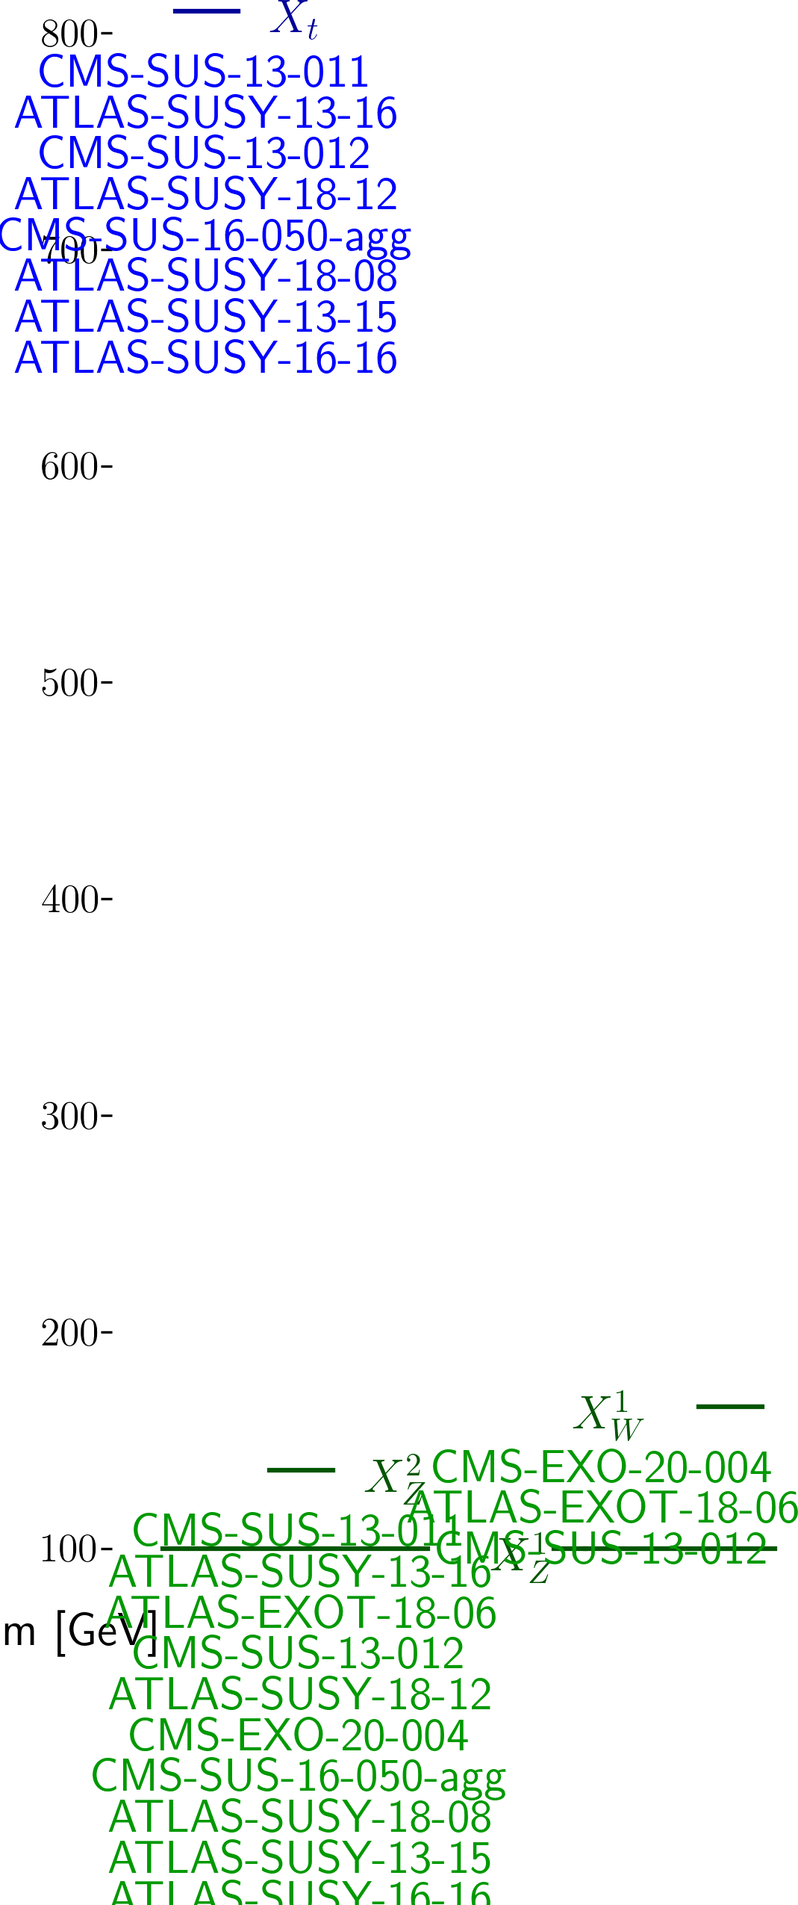
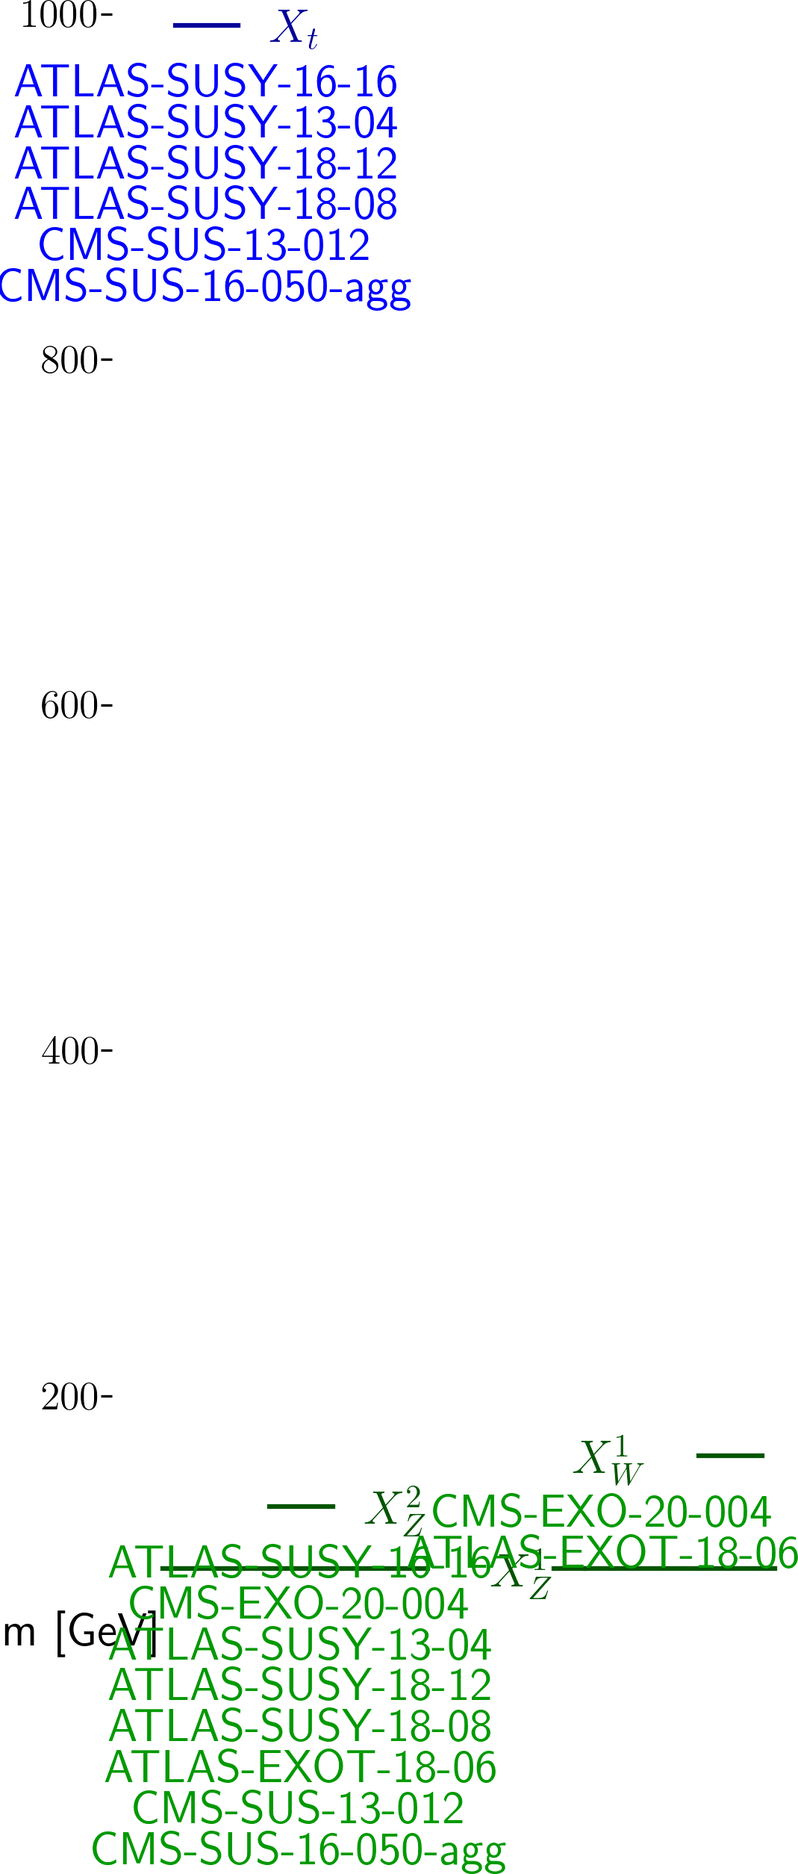
automated update by plotHiscore.py to mcmc_310:     K=23.990 TL=29.04 walkerid=0

diff --git a/protomodels/mcmc_310/rawnumbers.html b/protomodels/mcmc_310/rawnumbers.html
@@ -3,47 +3,25 @@
 </tr>
 <tr><td><a href=http://cms-results.web.cern.ch/cms-results/public-results/publications/EXO-20-004/>CMS-EXO-20-004</a></td><td>comb</td> <td>-</td><td>TChiISR, TChiZISRqq</td><td> 2e+02 fb </td><td> 1e+02 fb</td><td style="text-align:right">4.5 &sigma;</td><td style="text-align:right">X<sup>1</sup><sub>W</sub>, X<sup>1</sup><sub>Z</sub>, X<sup>2</sup><sub>Z</sub></td></tr>
 <tr><td><a href=https://atlas.web.cern.ch/Atlas/GROUPS/PHYSICS/PAPERS/EXOT-2018-06/>ATLAS-EXOT-2018-06</a></td><td>em</td> <td>EM10</td><td>TChiISR, TChiZISRqq</td><td>413</td><td>359.00 +/- 10.00</td><td style="text-align:right">2.5 &sigma;</td><td style="text-align:right">X<sup>1</sup><sub>W</sub>, X<sup>1</sup><sub>Z</sub>, X<sup>2</sup><sub>Z</sub></td></tr>
-<tr><td><a href=https://atlas.web.cern.ch/Atlas/GROUPS/PHYSICS/PAPERS/SUSY-2018-12/>ATLAS-SUSY-2018-12</a></td><td>em</td> <td>SRBTT</td><td>T2tt</td><td>67</td><td>46.00 +/- 7.00</td><td style="text-align:right">2.0 &sigma;</td><td style="text-align:right">X<sup>1</sup><sub>Z</sub>, X<sub>t</sub>, X<sup>2</sup><sub>Z</sub></td></tr>
-<tr><td><a href=https://twiki.cern.ch/twiki/bin/view/CMSPublic/PhysicsResultsSUS13012>CMS-SUS-13-012</a></td><td>em</td> <td>6NJet8_500HT800 ...</td><td>T2tt, T6bbWWoff</td><td>9</td><td>0.80 +/- 3.30</td><td style="text-align:right">1.8 &sigma;</td><td style="text-align:right">X<sup>1</sup><sub>W</sub>, X<sup>1</sup><sub>Z</sub>, X<sub>t</sub>, X<sup>2</sup><sub>Z</sub></td></tr>
-<tr><td><a href=https://atlas.web.cern.ch/Atlas/GROUPS/PHYSICS/PAPERS/SUSY-2018-08/>ATLAS-SUSY-2018-08</a></td><td>em</td> <td>SRSF140</td><td>T2tt</td><td>9</td><td>5.10 +/- 0.90</td><td style="text-align:right">1.5 &sigma;</td><td style="text-align:right">X<sup>1</sup><sub>Z</sub>, X<sub>t</sub>, X<sup>2</sup><sub>Z</sub></td></tr>
-<tr><td><a href=https://atlas.web.cern.ch/Atlas/GROUPS/PHYSICS/PAPERS/SUSY-2016-16/>ATLAS-SUSY-2016-16</a></td><td>em</td> <td>tN_med</td><td>T2tt</td><td>50</td><td>36.30 +/- 6.60</td><td style="text-align:right">1.5 &sigma;</td><td style="text-align:right">X<sup>1</sup><sub>Z</sub>, X<sub>t</sub>, X<sup>2</sup><sub>Z</sub></td></tr>
-<tr><td><a href=https://atlas.web.cern.ch/Atlas/GROUPS/PHYSICS/PAPERS/SUSY-2013-16/>ATLAS-SUSY-2013-16</a></td><td>em</td> <td>SRA4</td><td>T2tt</td><td>4</td><td>2.40 +/- 0.70</td><td style="text-align:right">0.9 &sigma;</td><td style="text-align:right">X<sup>1</sup><sub>Z</sub>, X<sub>t</sub>, X<sup>2</sup><sub>Z</sub></td></tr>
-<tr><td><a href=https://atlas.web.cern.ch/Atlas/GROUPS/PHYSICS/PAPERS/SUSY-2013-15/>ATLAS-SUSY-2013-15</a></td><td>em</td> <td>tNboost</td><td>T2tt</td><td>5</td><td>3.30 +/- 0.70</td><td style="text-align:right">0.9 &sigma;</td><td style="text-align:right">X<sup>1</sup><sub>Z</sub>, X<sub>t</sub>, X<sup>2</sup><sub>Z</sub></td></tr>
-<tr><td><a href=https://twiki.cern.ch/twiki/bin/view/CMSPublic/PhysicsResultsSUS13011>CMS-SUS-13-011</a></td><td>em</td> <td>LM150</td><td>T2tt</td><td>227</td><td>251.00 +/- 50.00</td><td style="text-align:right">-0.5 &sigma;</td><td style="text-align:right">X<sup>1</sup><sub>Z</sub>, X<sub>t</sub>, X<sup>2</sup><sub>Z</sub></td></tr>
-<tr><td><a href=http://cms-results.web.cern.ch/cms-results/public-results/publications/SUS-16-050/index.html>CMS-SUS-16-050-agg</a></td><td>comb</td> <td>-</td><td>T2tt</td><td> 0.5 fb </td><td> 0.7 fb</td><td style="text-align:right">-0.7 &sigma;</td><td style="text-align:right">X<sup>1</sup><sub>Z</sub>, X<sub>t</sub>, X<sup>2</sup><sub>Z</sub></td></tr>
+<tr><td><a href=https://atlas.web.cern.ch/Atlas/GROUPS/PHYSICS/PAPERS/SUSY-2016-16/>ATLAS-SUSY-2016-16</a></td><td>em</td> <td>tN_high</td><td>T2tt</td><td>8</td><td>3.80 +/- 1.00</td><td style="text-align:right">1.7 &sigma;</td><td style="text-align:right">X<sub>t</sub>, X<sup>2</sup><sub>Z</sub></td></tr>
+<tr><td><a href=https://atlas.web.cern.ch/Atlas/GROUPS/PHYSICS/PAPERS/SUSY-2018-08/>ATLAS-SUSY-2018-08</a></td><td>em</td> <td>SRSF140</td><td>T2tt</td><td>9</td><td>5.10 +/- 0.90</td><td style="text-align:right">1.5 &sigma;</td><td style="text-align:right">X<sub>t</sub>, X<sup>2</sup><sub>Z</sub></td></tr>
+<tr><td><a href=https://twiki.cern.ch/twiki/bin/view/CMSPublic/PhysicsResultsSUS13012>CMS-SUS-13-012</a></td><td>em</td> <td>3NJet6_1000HT12 ...</td><td>T2tt</td><td>32</td><td>22.80 +/- 5.20</td><td style="text-align:right">1.3 &sigma;</td><td style="text-align:right">X<sub>t</sub>, X<sup>2</sup><sub>Z</sub></td></tr>
+<tr><td><a href=https://atlas.web.cern.ch/Atlas/GROUPS/PHYSICS/PAPERS/SUSY-2013-04/>ATLAS-SUSY-2013-04</a></td><td>em</td> <td>GtGrid_SR_10ij5 ...</td><td>T2tt</td><td>3</td><td>1.37 +/- 0.35</td><td style="text-align:right">1.2 &sigma;</td><td style="text-align:right">X<sub>t</sub>, X<sup>2</sup><sub>Z</sub></td></tr>
+<tr><td><a href=https://atlas.web.cern.ch/Atlas/GROUPS/PHYSICS/PAPERS/SUSY-2018-12/>ATLAS-SUSY-2018-12</a></td><td>em</td> <td>SRATW</td><td>T2tt</td><td>8</td><td>5.60 +/- 0.70</td><td style="text-align:right">1.0 &sigma;</td><td style="text-align:right">X<sub>t</sub>, X<sup>2</sup><sub>Z</sub></td></tr>
+<tr><td><a href=http://cms-results.web.cern.ch/cms-results/public-results/publications/SUS-16-050/index.html>CMS-SUS-16-050-agg</a></td><td>comb</td> <td>-</td><td>T2tt</td><td> 0.4 fb </td><td> 0.7 fb</td><td style="text-align:right">-0.2 &sigma;</td><td style="text-align:right">X<sub>t</sub>, X<sup>2</sup><sub>Z</sub></td></tr>
 </table>
 <table style='color:grey'>
-<tr><th>Not in Best Combo</th><th>Type</th><th>Dataset</th><th>Topos</th><th>Observed</th><th>Expected</th><th>Approx &sigma;</th><th>Particles</th><tr><td><a href=https://atlas.web.cern.ch/Atlas/GROUPS/PHYSICS/PAPERS/SUSY-2015-02/>ATLAS-SUSY-2015-02</a></td><td>em</td> <td>SR1</td><td>T2tt</td><td>12</td><td>5.50 +/- 0.72</td><td style="text-align:right">2.3 &sigma;</td><td style="text-align:right">X<sup>1</sup><sub>Z</sub>, X<sub>t</sub>, X<sup>2</sup><sub>Z</sub></td></tr>
-<tr><td><a href=https://atlas.web.cern.ch/Atlas/GROUPS/PHYSICS/PAPERS/SUSY-2013-04/>ATLAS-SUSY-2013-04</a></td><td>em</td> <td>GtGrid_SR_10ij5 ...</td><td>T2tt</td><td>3</td><td>1.37 +/- 0.35</td><td style="text-align:right">1.2 &sigma;</td><td style="text-align:right">X<sup>1</sup><sub>Z</sub>, X<sub>t</sub>, X<sup>2</sup><sub>Z</sub></td></tr>
-<tr><td><a href=http://cms-results.web.cern.ch/cms-results/public-results/publications/SUS-16-033/index.html>CMS-SUS-16-033</a></td><td>em</td> <td>SR2_Njet3_Nb0_H ...</td><td>T2tt</td><td>71</td><td>55.20 +/- 11.50</td><td style="text-align:right">1.1 &sigma;</td><td style="text-align:right">X<sup>1</sup><sub>Z</sub>, X<sub>t</sub>, X<sup>2</sup><sub>Z</sub></td></tr>
-<tr><td><a href=https://atlas.web.cern.ch/Atlas/GROUPS/PHYSICS/PAPERS/SUSY-2013-04/>ATLAS-SUSY-2013-04</a></td><td>em</td> <td>GtGrid_SR_8ij80 ...</td><td>T2tt</td><td>2</td><td>0.90 +/- 0.60</td><td style="text-align:right">0.9 &sigma;</td><td style="text-align:right">X<sup>1</sup><sub>Z</sub>, X<sub>t</sub>, X<sup>2</sup><sub>Z</sub></td></tr>
-<tr><td><a href=https://atlas.web.cern.ch/Atlas/GROUPS/PHYSICS/PAPERS/SUSY-2013-04/>ATLAS-SUSY-2013-04</a></td><td>em</td> <td>GtGrid_SR_9ej50 ...</td><td>T2tt</td><td>5</td><td>3.30 +/- 0.70</td><td style="text-align:right">0.9 &sigma;</td><td style="text-align:right">X<sup>1</sup><sub>Z</sub>, X<sub>t</sub>, X<sup>2</sup><sub>Z</sub></td></tr>
-<tr><td><a href=https://twiki.cern.ch/twiki/bin/view/CMSPublic/PhysicsResultsSUS13015>CMS-PAS-SUS-13-015</a></td><td>em</td> <td>pTmiss350_Nb2</td><td>T2tt</td><td>15</td><td>8.60 +/- 7.10</td><td style="text-align:right">0.8 &sigma;</td><td style="text-align:right">X<sup>1</sup><sub>Z</sub>, X<sub>t</sub>, X<sup>2</sup><sub>Z</sub></td></tr>
-<tr><td><a href=https://atlas.web.cern.ch/Atlas/GROUPS/PHYSICS/PAPERS/SUSY-2013-04/>ATLAS-SUSY-2013-04</a></td><td>em</td> <td>GtGrid_SR_8ej50 ...</td><td>T2tt</td><td>40</td><td>35.00 +/- 4.00</td><td style="text-align:right">0.7 &sigma;</td><td style="text-align:right">X<sup>1</sup><sub>Z</sub>, X<sub>t</sub>, X<sup>2</sup><sub>Z</sub></td></tr>
-<tr><td><a href=https://atlas.web.cern.ch/Atlas/GROUPS/PHYSICS/PAPERS/SUSY-2013-04/>ATLAS-SUSY-2013-04</a></td><td>em</td> <td>GtGrid_SR_9ej50 ...</td><td>T2tt</td><td>8</td><td>6.10 +/- 1.70</td><td style="text-align:right">0.7 &sigma;</td><td style="text-align:right">X<sup>1</sup><sub>Z</sub>, X<sub>t</sub>, X<sup>2</sup><sub>Z</sub></td></tr>
-<tr><td><a href=http://cms-results.web.cern.ch/cms-results/public-results/publications/SUS-16-033/index.html>CMS-SUS-16-033</a></td><td>em</td> <td>SR6_Njet2_Nb2_H ...</td><td>T2tt</td><td>216</td><td>196.00 +/- 28.00</td><td style="text-align:right">0.6 &sigma;</td><td style="text-align:right">X<sup>1</sup><sub>Z</sub>, X<sub>t</sub>, X<sup>2</sup><sub>Z</sub></td></tr>
-<tr><td><a href=http://cms-results.web.cern.ch/cms-results/public-results/publications/SUS-16-033/index.html>CMS-SUS-16-033</a></td><td>em</td> <td>SR1_Njet2_Nb0_H ...</td><td>T2tt</td><td>7838</td><td>7584.00 +/- 433.00</td><td style="text-align:right">0.6 &sigma;</td><td style="text-align:right">X<sup>1</sup><sub>Z</sub>, X<sub>t</sub>, X<sup>2</sup><sub>Z</sub></td></tr>
-<tr><td><a href=http://cms-results.web.cern.ch/cms-results/public-results/publications/SUS-16-033/index.html>CMS-SUS-16-033</a></td><td>em</td> <td>SR12_Njet5_Nb1_ ...</td><td>T2tt</td><td>48</td><td>42.20 +/- 9.70</td><td style="text-align:right">0.5 &sigma;</td><td style="text-align:right">X<sup>1</sup><sub>Z</sub>, X<sub>t</sub>, X<sup>2</sup><sub>Z</sub></td></tr>
-<tr><td><a href=http://cms-results.web.cern.ch/cms-results/public-results/publications/SUS-16-033/index.html>CMS-SUS-16-033</a></td><td>em</td> <td>SR7_Njet3_Nb1_H ...</td><td>T2tt</td><td>123</td><td>113.00 +/- 18.00</td><td style="text-align:right">0.5 &sigma;</td><td style="text-align:right">X<sup>1</sup><sub>Z</sub>, X<sub>t</sub>, X<sup>2</sup><sub>Z</sub></td></tr>
-<tr><td><a href=https://twiki.cern.ch/twiki/bin/view/CMSPublic/PhysicsResultsSUS13015>CMS-PAS-SUS-13-015</a></td><td>em</td> <td>pTmiss350_Nb1</td><td>T2tt</td><td>45</td><td>40.90 +/- 9.60</td><td style="text-align:right">0.4 &sigma;</td><td style="text-align:right">X<sup>1</sup><sub>Z</sub>, X<sub>t</sub>, X<sup>2</sup><sub>Z</sub></td></tr>
-<tr><td><a href=http://cms-results.web.cern.ch/cms-results/public-results/publications/SUS-16-033/index.html>CMS-SUS-16-033</a></td><td>em</td> <td>SR9_NJet5_Nb2_H ...</td><td>T2tt</td><td>6</td><td>4.40 +/- 3.40</td><td style="text-align:right">0.4 &sigma;</td><td style="text-align:right">X<sup>1</sup><sub>Z</sub>, X<sub>t</sub>, X<sup>2</sup><sub>Z</sub></td></tr>
-<tr><td><a href=https://atlas.web.cern.ch/Atlas/GROUPS/PHYSICS/PAPERS/SUSY-2013-04/>ATLAS-SUSY-2013-04</a></td><td>em</td> <td>GtGrid_SR_8ej50 ...</td><td>T2tt</td><td>44</td><td>40.00 +/- 10.00</td><td style="text-align:right">0.4 &sigma;</td><td style="text-align:right">X<sup>1</sup><sub>Z</sub>, X<sub>t</sub>, X<sup>2</sup><sub>Z</sub></td></tr>
-<tr><td><a href=https://atlas.web.cern.ch/Atlas/GROUPS/PHYSICS/PAPERS/SUSY-2013-04/>ATLAS-SUSY-2013-04</a></td><td>em</td> <td>GtGrid_SR_7ej80 ...</td><td>T2tt</td><td>12</td><td>11.00 +/- 2.20</td><td style="text-align:right">0.3 &sigma;</td><td style="text-align:right">X<sup>1</sup><sub>Z</sub>, X<sub>t</sub>, X<sup>2</sup><sub>Z</sub></td></tr>
-<tr><td><a href=http://cms-results.web.cern.ch/cms-results/public-results/publications/SUS-16-033/index.html>CMS-SUS-16-033</a></td><td>em</td> <td>SR4_Njet5_Nb0_H ...</td><td>T2tt</td><td>25</td><td>23.00 +/- 6.50</td><td style="text-align:right">0.3 &sigma;</td><td style="text-align:right">X<sup>1</sup><sub>Z</sub>, X<sub>t</sub>, X<sup>2</sup><sub>Z</sub></td></tr>
-<tr><td><a href=http://cms-results.web.cern.ch/cms-results/public-results/publications/SUS-16-033/index.html>CMS-SUS-16-033</a></td><td>em</td> <td>SR3_Njet5_Nb0_H ...</td><td>T2tt</td><td>819</td><td>806.00 +/- 57.00</td><td style="text-align:right">0.2 &sigma;</td><td style="text-align:right">X<sup>1</sup><sub>Z</sub>, X<sub>t</sub>, X<sup>2</sup><sub>Z</sub></td></tr>
-<tr><td><a href=https://atlas.web.cern.ch/Atlas/GROUPS/PHYSICS/PAPERS/SUSY-2015-02/>ATLAS-SUSY-2015-02</a></td><td>em</td> <td>SR3</td><td>T2tt</td><td>1</td><td>1.03 +/- 0.18</td><td style="text-align:right">0.1 &sigma;</td><td style="text-align:right">X<sup>1</sup><sub>Z</sub>, X<sub>t</sub>, X<sup>2</sup><sub>Z</sub></td></tr>
-<tr><td><a href=https://atlas.web.cern.ch/Atlas/GROUPS/PHYSICS/PAPERS/SUSY-2013-04/>ATLAS-SUSY-2013-04</a></td><td>em</td> <td>GtGrid_SR_7ej80 ...</td><td>T2tt</td><td>17</td><td>17.00 +/- 6.00</td><td style="text-align:right">0.0 &sigma;</td><td style="text-align:right">X<sup>1</sup><sub>Z</sub>, X<sub>t</sub>, X<sup>2</sup><sub>Z</sub></td></tr>
+<tr><th>Not in Best Combo</th><th>Type</th><th>Dataset</th><th>Topos</th><th>Observed</th><th>Expected</th><th>Approx &sigma;</th><th>Particles</th><tr><td><a href=http://cms-results.web.cern.ch/cms-results/public-results/publications/SUS-16-033/index.html>CMS-SUS-16-033</a></td><td>em</td> <td>SR2_Njet3_Nb0_H ...</td><td>T2tt</td><td>71</td><td>55.20 +/- 11.50</td><td style="text-align:right">1.2 &sigma;</td><td style="text-align:right">X<sub>t</sub>, X<sup>2</sup><sub>Z</sub></td></tr>
+<tr><td><a href=http://cms-results.web.cern.ch/cms-results/public-results/publications/SUS-16-033/index.html>CMS-SUS-16-033</a></td><td>em</td> <td>SR6_Njet2_Nb2_H ...</td><td>T2tt</td><td>216</td><td>196.00 +/- 28.00</td><td style="text-align:right">0.6 &sigma;</td><td style="text-align:right">X<sub>t</sub>, X<sup>2</sup><sub>Z</sub></td></tr>
+<tr><td><a href=http://cms-results.web.cern.ch/cms-results/public-results/publications/SUS-16-033/index.html>CMS-SUS-16-033</a></td><td>em</td> <td>SR1_Njet2_Nb0_H ...</td><td>T2tt</td><td>7838</td><td>7584.00 +/- 433.00</td><td style="text-align:right">0.6 &sigma;</td><td style="text-align:right">X<sub>t</sub>, X<sup>2</sup><sub>Z</sub></td></tr>
+<tr><td><a href=http://cms-results.web.cern.ch/cms-results/public-results/publications/SUS-16-033/index.html>CMS-SUS-16-033</a></td><td>em</td> <td>SR12_Njet5_Nb1_ ...</td><td>T2tt</td><td>48</td><td>42.20 +/- 9.70</td><td style="text-align:right">0.5 &sigma;</td><td style="text-align:right">X<sub>t</sub>, X<sup>2</sup><sub>Z</sub></td></tr>
+<tr><td><a href=http://cms-results.web.cern.ch/cms-results/public-results/publications/SUS-16-033/index.html>CMS-SUS-16-033</a></td><td>em</td> <td>SR7_Njet3_Nb1_H ...</td><td>T2tt</td><td>123</td><td>113.00 +/- 18.00</td><td style="text-align:right">0.5 &sigma;</td><td style="text-align:right">X<sub>t</sub>, X<sup>2</sup><sub>Z</sub></td></tr>
+<tr><td><a href=http://cms-results.web.cern.ch/cms-results/public-results/publications/SUS-16-033/index.html>CMS-SUS-16-033</a></td><td>em</td> <td>SR9_NJet5_Nb2_H ...</td><td>T2tt</td><td>6</td><td>4.40 +/- 3.40</td><td style="text-align:right">0.4 &sigma;</td><td style="text-align:right">X<sub>t</sub>, X<sup>2</sup><sub>Z</sub></td></tr>
+<tr><td><a href=http://cms-results.web.cern.ch/cms-results/public-results/publications/SUS-16-033/index.html>CMS-SUS-16-033</a></td><td>em</td> <td>SR4_Njet5_Nb0_H ...</td><td>T2tt</td><td>25</td><td>23.00 +/- 6.50</td><td style="text-align:right">0.3 &sigma;</td><td style="text-align:right">X<sub>t</sub>, X<sup>2</sup><sub>Z</sub></td></tr>
+<tr><td><a href=http://cms-results.web.cern.ch/cms-results/public-results/publications/SUS-16-033/index.html>CMS-SUS-16-033</a></td><td>em</td> <td>SR3_Njet5_Nb0_H ...</td><td>T2tt</td><td>819</td><td>806.00 +/- 57.00</td><td style="text-align:right">0.2 &sigma;</td><td style="text-align:right">X<sub>t</sub>, X<sup>2</sup><sub>Z</sub></td></tr>
 <tr><td><a href=http://cms-results.web.cern.ch/cms-results/public-results/publications/SUS-16-033/index.html>CMS-SUS-16-033</a></td><td>em</td> <td>SR5_Njet9_Nb0_H ...</td><td>T2tt</td><td>1</td><td>0.60 +/- 1.30</td><td style="text-align:right">0.0 &sigma;</td><td style="text-align:right">X<sub>t</sub>, X<sup>2</sup><sub>Z</sub></td></tr>
-<tr><td><a href=https://twiki.cern.ch/twiki/bin/view/CMSPublic/PhysicsResultsSUS13015>CMS-PAS-SUS-13-015</a></td><td>em</td> <td>pTmiss200_Nb1</td><td>T2tt</td><td>254</td><td>254.30 +/- 35.00</td><td style="text-align:right">0.0 &sigma;</td><td style="text-align:right">X<sup>1</sup><sub>Z</sub>, X<sub>t</sub>, X<sup>2</sup><sub>Z</sub></td></tr>
-<tr><td><a href=https://atlas.web.cern.ch/Atlas/GROUPS/PHYSICS/PAPERS/SUSY-2013-04/>ATLAS-SUSY-2013-04</a></td><td>em</td> <td>GtGrid_SR_8ij80 ...</td><td>T2tt</td><td>3</td><td>3.30 +/- 2.20</td><td style="text-align:right">-0.1 &sigma;</td><td style="text-align:right">X<sup>1</sup><sub>Z</sub>, X<sub>t</sub>, X<sup>2</sup><sub>Z</sub></td></tr>
-<tr><td><a href=https://atlas.web.cern.ch/Atlas/GROUPS/PHYSICS/PAPERS/SUSY-2015-02/>ATLAS-SUSY-2015-02</a></td><td>em</td> <td>SR2</td><td>T2tt</td><td>1</td><td>1.25 +/- 0.26</td><td style="text-align:right">-0.1 &sigma;</td><td style="text-align:right">X<sup>1</sup><sub>Z</sub>, X<sub>t</sub>, X<sup>2</sup><sub>Z</sub></td></tr>
-<tr><td><a href=https://atlas.web.cern.ch/Atlas/GROUPS/PHYSICS/PAPERS/SUSY-2013-04/>ATLAS-SUSY-2013-04</a></td><td>em</td> <td>GtGrid_SR_9ej50 ...</td><td>T2tt</td><td>7</td><td>8.00 +/- 2.70</td><td style="text-align:right">-0.2 &sigma;</td><td style="text-align:right">X<sup>1</sup><sub>Z</sub>, X<sub>t</sub>, X<sup>2</sup><sub>Z</sub></td></tr>
-<tr><td><a href=https://atlas.web.cern.ch/Atlas/GROUPS/PHYSICS/PAPERS/SUSY-2013-04/>ATLAS-SUSY-2013-04</a></td><td>em</td> <td>GtGrid_SR_8ij80 ...</td><td>T2tt</td><td>1</td><td>1.50 +/- 0.90</td><td style="text-align:right">-0.2 &sigma;</td><td style="text-align:right">X<sup>1</sup><sub>Z</sub>, X<sub>t</sub>, X<sup>2</sup><sub>Z</sub></td></tr>
-<tr><td><a href=https://twiki.cern.ch/twiki/bin/view/CMSPublic/PhysicsResultsSUS13015>CMS-PAS-SUS-13-015</a></td><td>em</td> <td>pTmiss200_Nb2</td><td>T2tt</td><td>83</td><td>88.40 +/- 19.80</td><td style="text-align:right">-0.2 &sigma;</td><td style="text-align:right">X<sup>1</sup><sub>Z</sub>, X<sub>t</sub>, X<sup>2</sup><sub>Z</sub></td></tr>
-<tr><td><a href=http://cms-results.web.cern.ch/cms-results/public-results/publications/SUS-16-033/index.html>CMS-SUS-16-033</a></td><td>em</td> <td>SR8_Njet5_Nb3_H ...</td><td>T2tt</td><td>17</td><td>19.50 +/- 8.40</td><td style="text-align:right">-0.2 &sigma;</td><td style="text-align:right">X<sup>1</sup><sub>Z</sub>, X<sub>t</sub>, X<sup>2</sup><sub>Z</sub></td></tr>
-<tr><td><a href=https://atlas.web.cern.ch/Atlas/GROUPS/PHYSICS/PAPERS/SUSY-2013-04/>ATLAS-SUSY-2013-04</a></td><td>em</td> <td>GtGrid_SR_8ej50 ...</td><td>T2tt</td><td>44</td><td>50.00 +/- 10.00</td><td style="text-align:right">-0.5 &sigma;</td><td style="text-align:right">X<sup>1</sup><sub>Z</sub>, X<sub>t</sub>, X<sup>2</sup><sub>Z</sub></td></tr>
-<tr><td><a href=http://cms-results.web.cern.ch/cms-results/public-results/publications/SUS-16-033/index.html>CMS-SUS-16-033</a></td><td>em</td> <td>SR10_Njet9_Nb3_ ...</td><td>T2tt</td><td>0</td><td>0.00 +/- 1.30</td><td style="text-align:right">-0.8 &sigma;</td><td style="text-align:right">X<sup>1</sup><sub>Z</sub>, X<sub>t</sub>, X<sup>2</sup><sub>Z</sub></td></tr>
-<tr><td><a href=http://cms-results.web.cern.ch/cms-results/public-results/publications/SUS-16-033/index.html>CMS-SUS-16-033</a></td><td>em</td> <td>SR11_Njet7_Nb1_ ...</td><td>T2tt</td><td>890</td><td>969.00 +/- 80.00</td><td style="text-align:right">-0.9 &sigma;</td><td style="text-align:right">X<sup>1</sup><sub>Z</sub>, X<sub>t</sub>, X<sup>2</sup><sub>Z</sub></td></tr>
-<tr><td><a href=https://atlas.web.cern.ch/Atlas/GROUPS/PHYSICS/PAPERS/SUSY-2013-04/>ATLAS-SUSY-2013-04</a></td><td>em</td> <td>GtGrid_SR_7ej80 ...</td><td>T2tt</td><td>13</td><td>25.00 +/- 10.00</td><td style="text-align:right">-1.1 &sigma;</td><td style="text-align:right">X<sup>1</sup><sub>Z</sub>, X<sub>t</sub>, X<sup>2</sup><sub>Z</sub></td></tr>
-<tr><td><a href=http://cms-results.web.cern.ch/cms-results/public-results/publications/SUS-19-006/index.html>CMS-SUS-19-006-agg</a></td><td>comb</td> <td>-</td><td>T2tt</td><td> 1 fb </td><td> 2 fb</td><td style="text-align:right">-1.4 &sigma;</td><td style="text-align:right">X<sup>1</sup><sub>Z</sub>, X<sub>t</sub>, X<sup>2</sup><sub>Z</sub></td></tr>
+<tr><td><a href=http://cms-results.web.cern.ch/cms-results/public-results/publications/SUS-16-033/index.html>CMS-SUS-16-033</a></td><td>em</td> <td>SR8_Njet5_Nb3_H ...</td><td>T2tt</td><td>17</td><td>19.50 +/- 8.40</td><td style="text-align:right">-0.2 &sigma;</td><td style="text-align:right">X<sub>t</sub>, X<sup>2</sup><sub>Z</sub></td></tr>
+<tr><td><a href=http://cms-results.web.cern.ch/cms-results/public-results/publications/SUS-19-006/index.html>CMS-SUS-19-006-agg</a></td><td>comb</td> <td>-</td><td>T2tt</td><td> 0.9 fb </td><td> 1 fb</td><td style="text-align:right">-0.6 &sigma;</td><td style="text-align:right">X<sub>t</sub>, X<sup>2</sup><sub>Z</sub></td></tr>
+<tr><td><a href=http://cms-results.web.cern.ch/cms-results/public-results/publications/SUS-16-033/index.html>CMS-SUS-16-033</a></td><td>em</td> <td>SR10_Njet9_Nb3_ ...</td><td>T2tt</td><td>0</td><td>0.00 +/- 1.30</td><td style="text-align:right">-0.7 &sigma;</td><td style="text-align:right">X<sub>t</sub>, X<sup>2</sup><sub>Z</sub></td></tr>
+<tr><td><a href=http://cms-results.web.cern.ch/cms-results/public-results/publications/SUS-16-033/index.html>CMS-SUS-16-033</a></td><td>em</td> <td>SR11_Njet7_Nb1_ ...</td><td>T2tt</td><td>890</td><td>969.00 +/- 80.00</td><td style="text-align:right">-0.9 &sigma;</td><td style="text-align:right">X<sub>t</sub>, X<sup>2</sup><sub>Z</sub></td></tr>
 </table>

diff --git a/protomodels/mcmc_310/index.html b/protomodels/mcmc_310/index.html
@@ -1,22 +1,22 @@
 <html>
 <body>
 <center>
-<table><td><h1>Current best protomodel: <i>K</i>=23.76, <i>TL</i>=30.26</h1><td><img height=60px src=https://smodels.github.io//protomodels/logos/protomodel_lego.png></table>
+<table><td><h1>Current best protomodel: <i>K</i>=23.99, <i>TL</i>=29.04</h1><td><img height=60px src=https://smodels.github.io//protomodels/logos/protomodel_lego.png></table>
 </center>
-<b><a href=./hiscore.slha>ProtoModel</a> <a href=./pmodel.dict>(dict)</a> produced with <a href=https://smodels.github.io//docs/Validation310>database v3.1.0</a>, combination strategy <a href=./matrix.png>aggressive</a> in walker 0 step 0.</b> <br>
+<b><a href=./hiscore.slha>ProtoModel</a> <a href=./pmodel.dict>(dict)</a> produced with <a href=https://smodels.github.io//docs/Validation310>database v3.1.0</a>, combination strategy <a href=./matrix.png>aggressive</a> in walker 0 step 327.</b> <br>
 <table width=80%>
 <tr><td>
-<br><b>29 predictions available. Highest r values are:</b><br><ul>
-<li><a href=http://cms-results.web.cern.ch/cms-results/public-results/publications/SUS-20-002/index.html>CMS-SUS-20-002</a>:ul:T2tt r=1.62, r<sub>exp</sub>=1.25<br>
-<li><a href=https://atlas.web.cern.ch/Atlas/GROUPS/PHYSICS/PAPERS/EXOT-2018-06/>ATLAS-EXOT-2018-06</a>:em:TChiZISRqq,TChiISR r=1.42, r<sub>exp</sub>=1.54<br>
-<li><a href=http://cms-results.web.cern.ch/cms-results/public-results/publications/SUS-19-010/index.html>CMS-SUS-19-010</a>:ul:T2tt r=1.08, r<sub>exp</sub>=0.98<br>
-<li><a href=http://cms-results.web.cern.ch/cms-results/public-results/publications/SUS-19-009/index.html>CMS-SUS-19-009</a>:ul:T2tt r=0.86, r<sub>exp</sub>=0.69<br>
+<br><b>20 predictions available. Highest r values are:</b><br><ul>
+<li><a href=https://atlas.web.cern.ch/Atlas/GROUPS/PHYSICS/PAPERS/EXOT-2018-06/>ATLAS-EXOT-2018-06</a>:em:TChiISR,TChiZISRqq r=1.35, r<sub>exp</sub>=1.47<br>
+<li><a href=http://cms-results.web.cern.ch/cms-results/public-results/publications/SUS-20-002/index.html>CMS-SUS-20-002</a>:ul:T2tt r=1.11, r<sub>exp</sub>=0.96<br>
+<li><a href=http://cms-results.web.cern.ch/cms-results/public-results/publications/SUS-19-010/index.html>CMS-SUS-19-010</a>:ul:T2tt r=0.84, r<sub>exp</sub>=0.73<br>
+<li><a href=http://cms-results.web.cern.ch/cms-results/public-results/publications/SUS-19-009/index.html>CMS-SUS-19-009</a>:ul:T2tt r=0.56, r<sub>exp</sub>=0.54<br>
 </ul>
-<td><img width=600px src=./texdoc.png?1754661370>
-<br><span style='font-size: smaller; color: darkred;'>Last updated: Fri Aug  8 15:56:10 2025</span>
+<td><img width=600px src=./texdoc.png?1754724556>
+<br><span style='font-size: smaller; color: darkred;'>Last updated: Sat Aug  9 09:29:16 2025</span>
 </table><table style="width:80%">
-<td width=45%><img height=580px src=./ruler.png?1754661370><td width=55%><img height=220px src=./decays.png?1754661370>
-<font size=-3><iframe type="text/html" height="350px" width="100%" frameborder="0" src="./rawnumbers.html?1754661370"></iframe></font>
+<td width=45%><img height=580px src=./ruler.png?1754724556><td width=55%><img height=220px src=./decays.png?1754724556>
+<font size=-3><iframe type="text/html" height="350px" width="100%" frameborder="0" src="./rawnumbers.html?1754724556"></iframe></font>
 </table>
 </body>
 </html>
